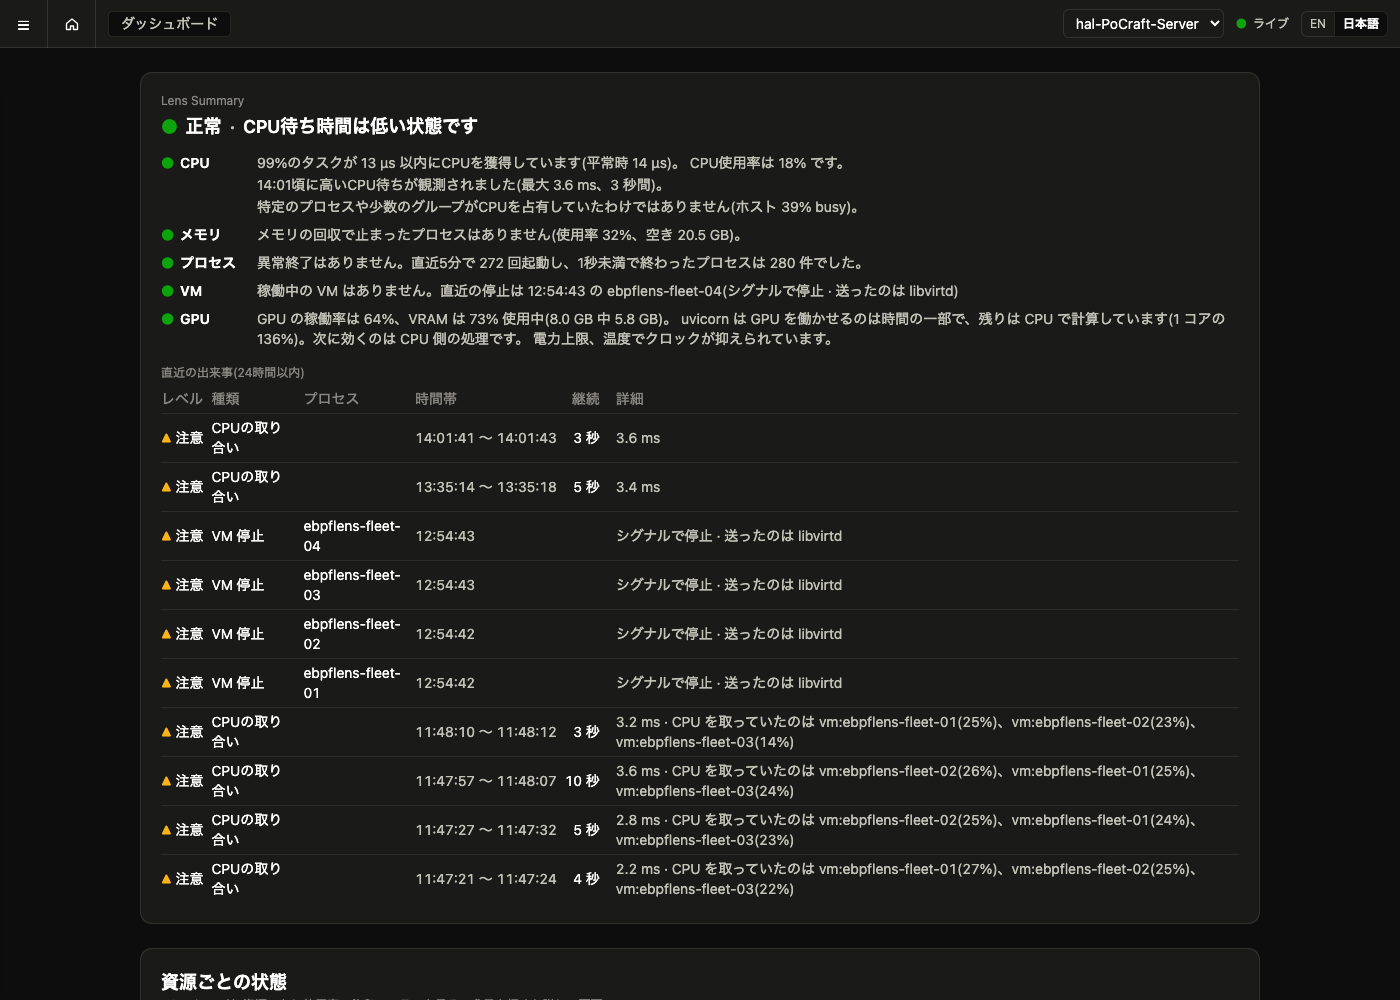
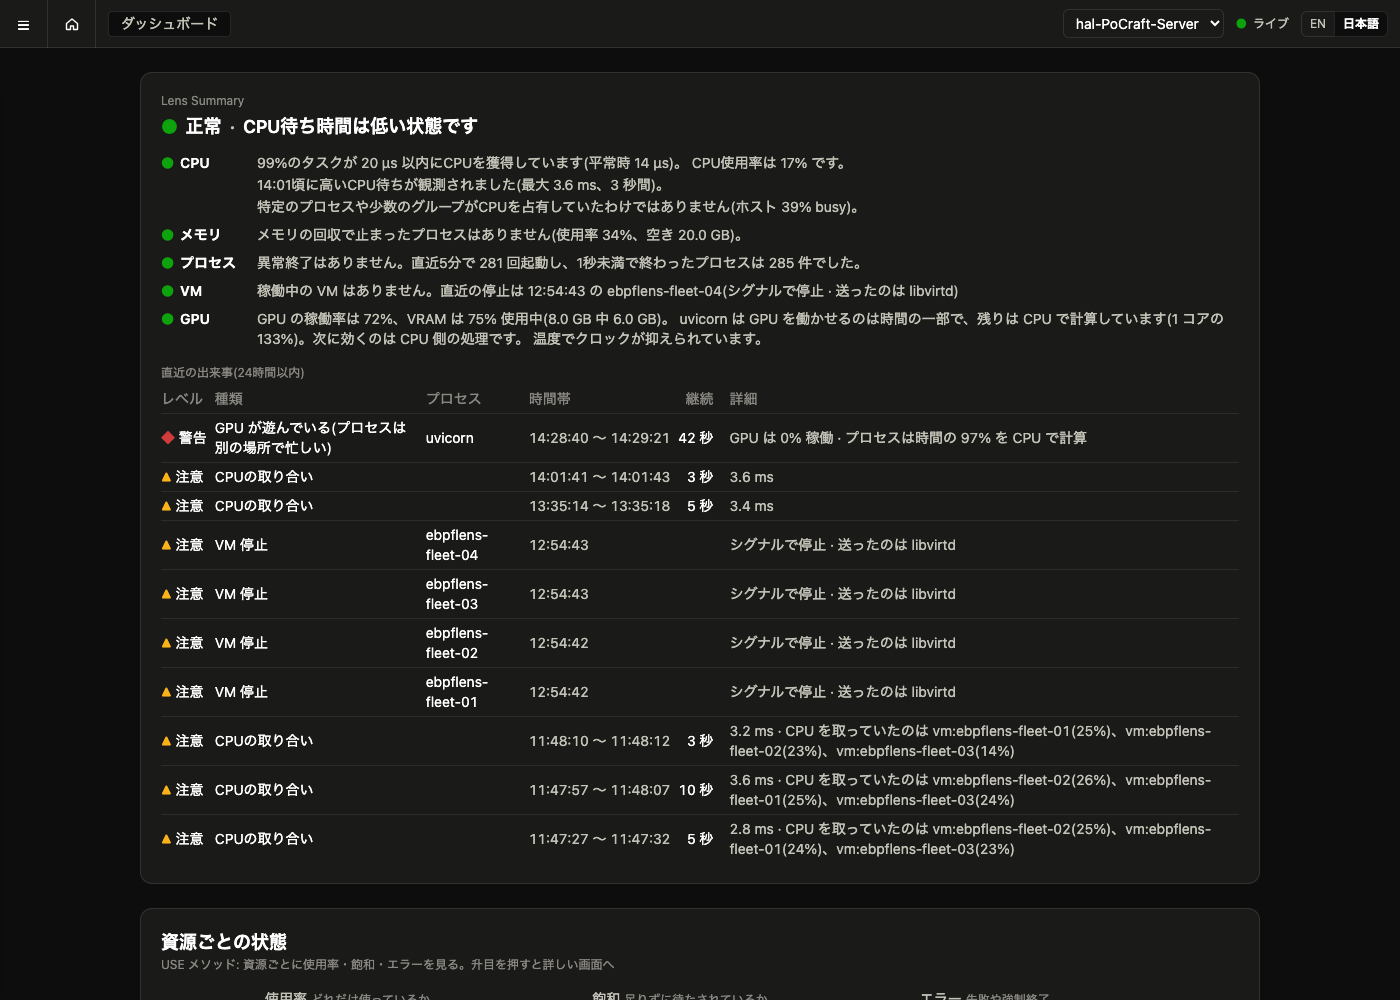
docs: the page-rendering phase as the recorded gpu_starved case, dashboard screenshot with it

diff --git a/README.ja.md b/README.ja.md
@@ -191,6 +191,7 @@ lab での webhook の文面: `[CAUTION] hal: VM fleet-04 is waiting for host CP
 |---|---|---|---|
 | PyTorch のループ: 4096² の行列積 + 毎回ページング可能メモリから 256 MB を GPU へ | 30〜78% | GPU へ 5.1 GB/s、`cuMemcpyHtoDAsync` の中で 982 ms/s、同期呼び出しは 64〜128 µs だけ | 転送が上限。止まるのは同期ではなく転送の呼び出しの中。pinned メモリで直る |
 | 1200 dpi の自炊本を YomiToku で OCR(paperlake、コンテナ内) | 64% | カーネル起動 4,800 回/秒、GPU へ 48 MB/s、時間の 23% は同期、CPU は 1 コアの 112%。クロックは電力上限で抑制 | GPU と CPU。残りの時間は CPU 側の処理で、次に効くのはそこ |
+| 同じジョブのページ画像化の段階(PDF → 1200 dpi の JPEG。OCR の前) | 0% | 42 秒間 CUDA 呼び出しなし、ワーカーは 1 コアの 97% を使用 | CPU が上限。10 秒後に `gpu_starved` の警告が開き、OCR が始まると閉じた |
 | lakebed(埋め込みモデルを載せたまま要求なし) | 0% | VRAM 1.8 GB、CUDA 呼び出しなし | 何もしていない |
 
 GPU の画面(`/gpu`)には、タイル、稼働率と VRAM の推移(遊んでいる線と VRAM 注意の線付き)、転送・同期 1 回あたりの待ち時間のヒートマップ、判定付きのプロセス表。ダッシュボードの升目に **GPU** の行(稼働率、VRAM、クロック抑制)、Lens Summary に **GPU** の行。NVIDIA ドライバのないホストは GPU サンプルを送らず、行も出ない。見るのは 1 枚目の GPU だけ。GeForce では NVML のプロセス別稼働率が取れない(Not Found)ので、判定はプロセスが何をしていたかから組み立てる。

diff --git a/README.md b/README.md
@@ -191,6 +191,7 @@ Measured on the test host (RTX 2070, driver 595):
 |---|---|---|---|
 | PyTorch loop: 4096² matmul + a 256 MB host→GPU copy from pageable memory each step | 30–78 % | 5.1 GB/s to the GPU, 982 ms/s inside `cuMemcpyHtoDAsync`, sync calls only 64–128 µs | transfer-bound. The blocking happens in the copy call, not in synchronize — pinned memory would fix it |
 | YomiToku OCR of a 1200 dpi scanned book (paperlake, in a container) | 64 % | 4,800 kernel launches/s, 48 MB/s to the GPU, 23 % of its time in sync, 112 % of a CPU; clocks held back by the power cap | GPU and CPU: the rest of the time goes to CPU-side work, which is the next limit |
+| The same job's page-rendering phase (PDF → 1200 dpi JPEG, before OCR starts) | 0 % | no CUDA call for 42 s while the worker used 97 % of a CPU | CPU-bound; a `gpu_starved` warning opened after 10 s and closed when OCR began |
 | lakebed (embedding model loaded, no requests) | 0 % | 1.8 GB of VRAM, no CUDA call | idle |
 
 The GPU screen (`/gpu`) shows the tiles, GPU busy and VRAM over time with the idle and VRAM lines, a heatmap of how long each copy or sync call waited, and the per-process table with the verdicts; the dashboard has a **GPU** row in the USE grid (busy, VRAM, clock throttling) and a **GPU** line in the Lens Summary. A host without an NVIDIA driver sends no GPU samples and shows no GPU row. Only the first GPU is watched; per-process GPU utilization is not available on GeForce (NVML returns Not Found), which is why the verdict reasons from what the process was doing instead.

diff --git a/docs/manual.md b/docs/manual.md
@@ -98,6 +98,8 @@ Build the new binaries, then on the server `make install && sudo systemctl resta
 
 ![The dashboard: Lens Summary, recent incidents, and the USE grid (ten VMs, three of them busy)](img/en-dashboard.png)
 
+![The dashboard in Japanese on the GPU host: the GPU line names the OCR worker and where its time goes; the incident list holds the gpu_starved warning from the page-rendering phase](img/ja-dashboard-gpu.png)
+
 
 ### Levels
 
